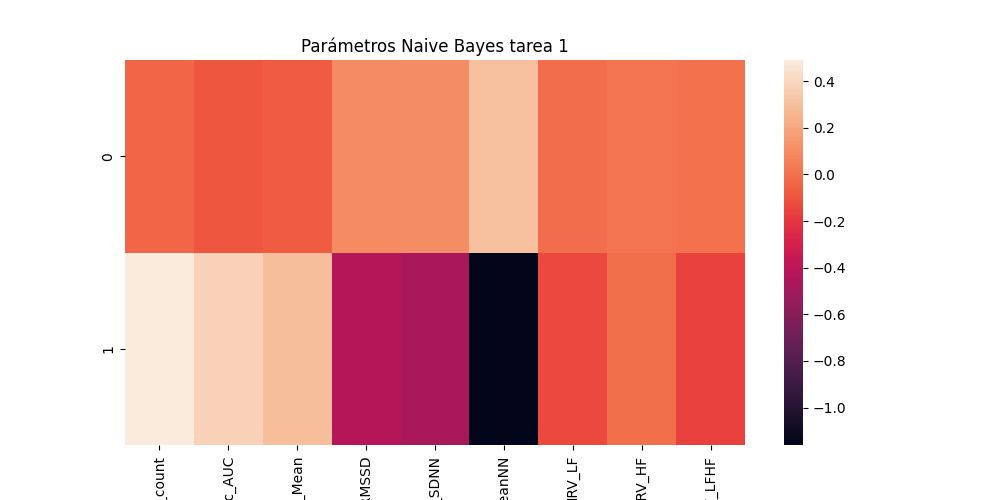
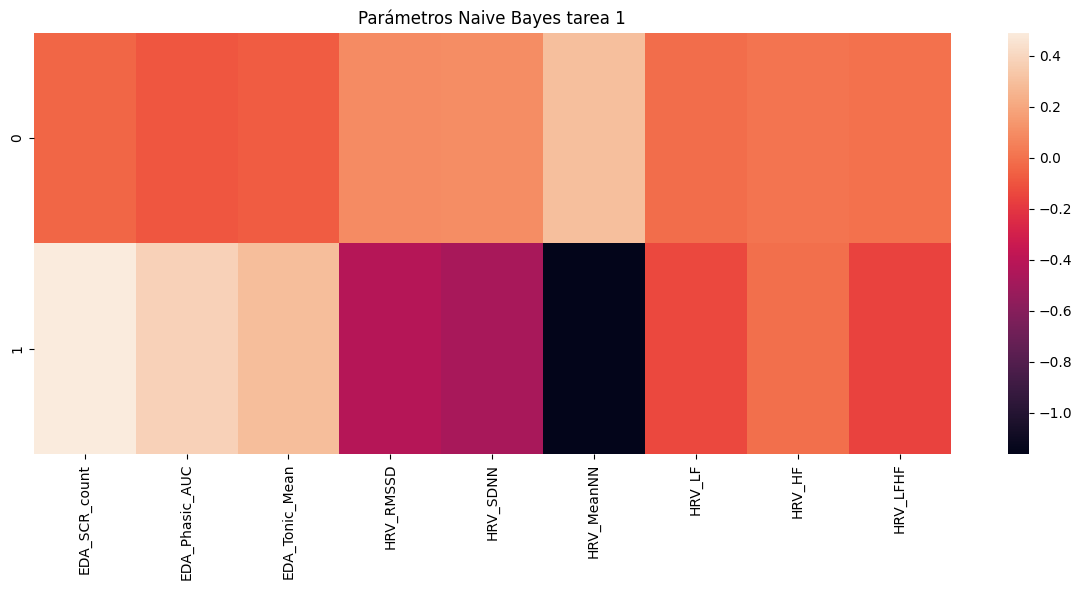
cambios en las caracteristicas y graficas

diff --git a/ejemploPlantilla.py b/ejemploPlantilla.py
@@ -7,7 +7,8 @@ import seaborn as sns
 
 from plantilla import (
     cargar_dataset, dividir_train_test, entrenar_y_evaluar,
-    ranking_informacion_mutua, guardar_resultados, ruta_resultado,ranking_fisher
+    ranking_informacion_mutua, guardar_resultados, ruta_resultado,
+    ranking_fisher, graficar_matriz_confusion,
 )
 
 # --- Cargar y dividir ---
@@ -29,24 +30,31 @@ metricas_tree, modelo_tree =(entrenar_y_evaluar(
     DecisionTreeClassifier(random_state=42), "T1_Arbol_todas", X_tr, X_te, y_tr, y_te
 ))
 
+graficar_matriz_confusion(metricas_nb["matriz_confusion"], "T1_NB_todas",
+    ruta_resultado("cm_T1_NB_todas.png"), etiquetas=["No Estrés", "Estrés"])
+graficar_matriz_confusion(metricas_tree["matriz_confusion"], "T1_Arbol_todas",
+    ruta_resultado("cm_T1_Arbol_todas.png"), etiquetas=["No Estrés", "Estrés"])
+
 resultados.append(metricas_nb)
 resultados.append(metricas_tree)
 
 #guarda el arbol de decision de la tarea 1
-plt.figure(figsize=(12,8))
+plt.figure(figsize=(24,16))
 plot_tree(modelo_tree, feature_names=X_tr.columns, class_names=True, filled=True)
 plt.title("Árbol de decisión Tarea 1")
-plt.savefig(ruta_resultado("arbol_decision_T1.png"))
+plt.tight_layout()
+plt.savefig(ruta_resultado("arbol_decision_T1.png"), dpi=300, bbox_inches='tight')
 plt.close()
 
 #guarda el bayes ingenuo de la tarea 1
 df_nb = pd.DataFrame(modelo_nb.theta_, columns=X_tr.columns)
 df_nb["Clase"] = modelo_nb.classes_
 
-plt.figure(figsize=(10,5))
+plt.figure(figsize=(12,6))
 sns.heatmap(df_nb.drop("Clase", axis=1), annot=False)
 plt.title("Parámetros Naive Bayes tarea 1")
-plt.savefig(ruta_resultado("naive_bayes_heatmap_T1.png"))
+plt.tight_layout()
+plt.savefig(ruta_resultado("naive_bayes_heatmap_T1.png"), bbox_inches='tight')
 plt.close()
 
 priors = pd.DataFrame({
@@ -58,10 +66,9 @@ medias["Clase"] = modelo_nb.classes_
 varianzas = pd.DataFrame(modelo_nb.var_, columns=X_tr.columns)
 varianzas["Clase"] = modelo_nb.classes_
 
-with pd.ExcelWriter(ruta_resultado("naive_bayes_modelo1.xlsx")) as writer:
-    priors.to_excel(writer, sheet_name="Priors", index=False)
-    medias.to_excel(writer, sheet_name="Medias", index=False)
-    varianzas.to_excel(writer, sheet_name="Varianzas", index=False)
+priors.to_csv(ruta_resultado("naive_bayes_modelo1_priors.csv"), index=False)
+medias.to_csv(ruta_resultado("naive_bayes_modelo1_medias.csv"), index=False)
+varianzas.to_csv(ruta_resultado("naive_bayes_modelo1_varianzas.csv"), index=False)
 
 
 # --- Tarea 2: top-5 por información mutua ---
@@ -76,24 +83,31 @@ metricas_tree, modelo_tree =(entrenar_y_evaluar(
     DecisionTreeClassifier(random_state=42), "T2_Arbol_top5", X_tr5, X_te5, y_tr5, y_te5
 ))
 
+graficar_matriz_confusion(metricas_nb["matriz_confusion"], "T2_NB_top5",
+    ruta_resultado("cm_T2_NB_top5.png"), etiquetas=["No Estrés", "Estrés"])
+graficar_matriz_confusion(metricas_tree["matriz_confusion"], "T2_Arbol_top5",
+    ruta_resultado("cm_T2_Arbol_top5.png"), etiquetas=["No Estrés", "Estrés"])
+
 resultados.append(metricas_nb)
 resultados.append(metricas_tree)
 
 #guarda el arbol de decision de la tarea 2
-plt.figure(figsize=(12,8))
+plt.figure(figsize=(24,16))
 plot_tree(modelo_tree, feature_names=top5, class_names=True, filled=True)
 plt.title("Árbol de decisión Tarea 2")
-plt.savefig(ruta_resultado("arbol_decision_T2.png"))
+plt.tight_layout()
+plt.savefig(ruta_resultado("arbol_decision_T2.png"), dpi=300, bbox_inches='tight')
 plt.close()
 
 #guarda el bayes ingenuo de la tarea 2
 df_nb = pd.DataFrame(modelo_nb.theta_, columns=top5)
 df_nb["Clase"] = modelo_nb.classes_
 
-plt.figure(figsize=(10,5))
+plt.figure(figsize=(12,6))
 sns.heatmap(df_nb.drop("Clase", axis=1), annot=False)
 plt.title("Parámetros Naive Bayes tarea 2")
-plt.savefig(ruta_resultado("naive_bayes_heatmap_T2.png"))
+plt.tight_layout()
+plt.savefig(ruta_resultado("naive_bayes_heatmap_T2.png"), bbox_inches='tight')
 plt.close()
 
 priors = pd.DataFrame({
@@ -105,9 +119,8 @@ medias["Clase"] = modelo_nb.classes_
 varianzas = pd.DataFrame(modelo_nb.var_, columns=top5)
 varianzas["Clase"] = modelo_nb.classes_
 
-with pd.ExcelWriter(ruta_resultado("naive_bayes_modelo2.xlsx")) as writer:
-    priors.to_excel(writer, sheet_name="Priors2", index=False)
-    medias.to_excel(writer, sheet_name="Medias2", index=False)
-    varianzas.to_excel(writer, sheet_name="Varianzas2", index=False)
+priors.to_csv(ruta_resultado("naive_bayes_modelo2_priors.csv"), index=False)
+medias.to_csv(ruta_resultado("naive_bayes_modelo2_medias.csv"), index=False)
+varianzas.to_csv(ruta_resultado("naive_bayes_modelo2_varianzas.csv"), index=False)
 # --- Guardar todo en un solo CSV ---
 guardar_resultados(resultados, ruta_resultado("resultados_stress.csv"))

diff --git a/plantilla.py b/plantilla.py
@@ -169,8 +169,6 @@ def ranking_informacion_mutua(X, y, random_state=42):
     scores = mutual_info_classif(X, y, random_state=random_state)
     return pd.Series(scores, index=X.columns).sort_values(ascending=False)
 
-import pandas as pd
-import numpy as np
 
 def ranking_fisher(X, y):
     clases = np.unique(y)
